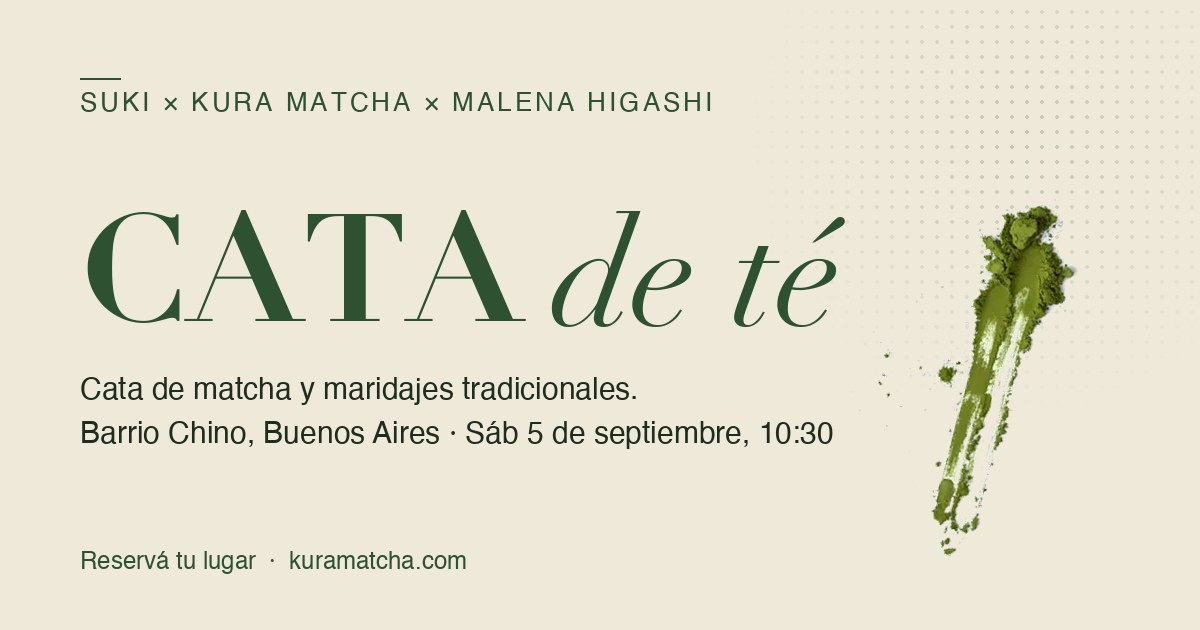
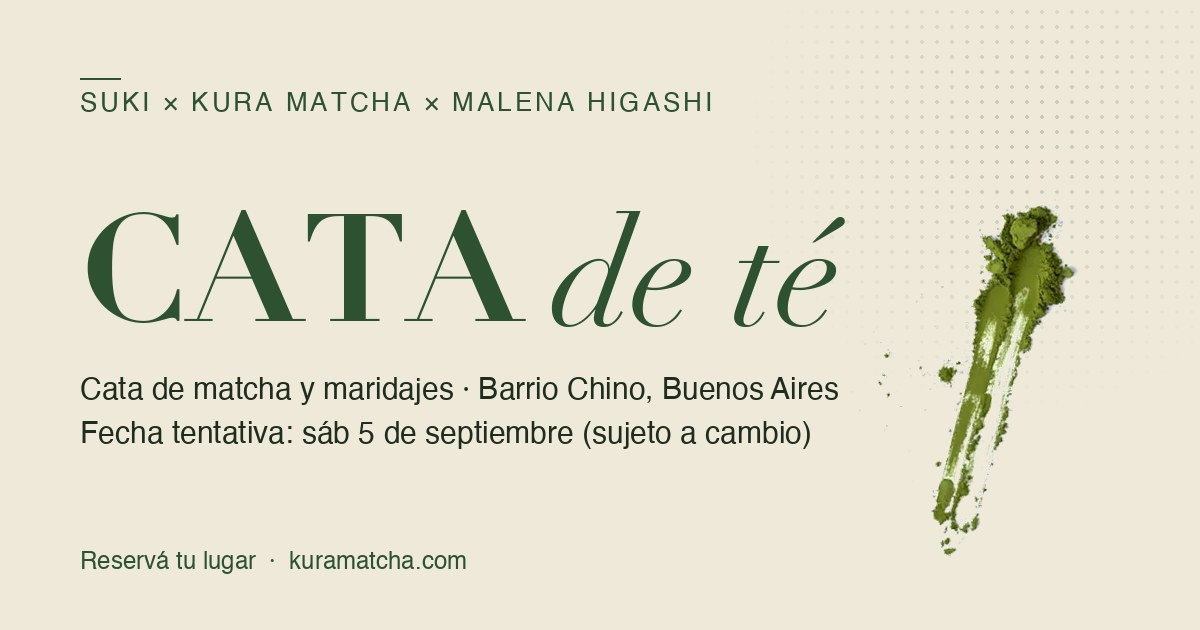
Marcar la fecha del 5 de septiembre como tentativa en todo el sitio
Mensaje de WhatsApp para compartir, bloque de datos (label "Fecha
tentativa" + nota), pill del formulario, meta description, og/twitter,
promo y pop-up del inicio, y la imagen de preview (cata-og.jpg) ahora
indican "fecha tentativa ... (sujeto a cambio)".

Changed region(s): [[0.0617, 0.6635, 0.7092, 0.7238], [0.37, 0.6032, 0.7092, 0.6333]]

diff --git a/cata.html b/cata.html
@@ -4,14 +4,14 @@
   <meta charset="utf-8" />
   <meta name="viewport" content="width=device-width, initial-scale=1" />
   <title>Ceremonia del té · SUKI × Kura Matcha × Malena Higashi</title>
-  <meta name="description" content="Cata de matcha y maridajes tradicionales en Barrio Chino, Buenos Aires. Sábado 5 de septiembre, 10:30 am. 20 cupos por turno. Reservá tu lugar." />
+  <meta name="description" content="Cata de matcha y maridajes tradicionales en Barrio Chino, Buenos Aires. Fecha tentativa: sábado 5 de septiembre (sujeto a cambio), 10:30 am. 20 cupos por turno. Reservá tu lugar." />
   <meta name="robots" content="index, follow" />
   <link rel="canonical" href="https://www.arlemgroup.com/cata.html" />
   <meta property="og:type" content="website" />
   <meta property="og:site_name" content="Kura Matcha" />
   <meta property="og:url" content="https://www.arlemgroup.com/cata.html" />
   <meta property="og:title" content="Cata de té · SUKI × Kura × Malena Higashi" />
-  <meta property="og:description" content="Cata de matcha y maridajes tradicionales en Barrio Chino, Buenos Aires. Sáb 5 de septiembre, 10:30 am · 20 cupos por turno." />
+  <meta property="og:description" content="Cata de matcha y maridajes tradicionales en Barrio Chino, Buenos Aires. Fecha tentativa: sáb 5 de septiembre (sujeto a cambio), 10:30 am · 20 cupos por turno." />
   <meta property="og:locale" content="es_AR" />
   <meta property="og:image" content="https://www.arlemgroup.com/public/cata-og.jpg" />
   <meta property="og:image:secure_url" content="https://www.arlemgroup.com/public/cata-og.jpg" />
@@ -21,7 +21,7 @@
   <meta property="og:image:alt" content="Cata de té · SUKI × Kura Matcha × Malena Higashi" />
   <meta name="twitter:card" content="summary_large_image" />
   <meta name="twitter:title" content="Cata de té · SUKI × Kura × Malena Higashi" />
-  <meta name="twitter:description" content="Cata de matcha y maridajes tradicionales en Barrio Chino, Buenos Aires. Sáb 5 de septiembre, 10:30 am." />
+  <meta name="twitter:description" content="Cata de matcha y maridajes tradicionales en Barrio Chino, Buenos Aires. Fecha tentativa: sáb 5 de septiembre (sujeto a cambio), 10:30 am." />
   <meta name="twitter:image" content="https://www.arlemgroup.com/public/cata-og.jpg" />
   <link rel="icon" type="image/x-icon" href="favicon.ico" />
   <link rel="icon" type="image/png" sizes="32x32" href="public/kura-logo.png" />
@@ -491,12 +491,12 @@
   <!-- Detalles -->
   <section>
     <div class="facts">
-      <div><span class="fact__k">Fecha</span><span class="fact__v">Sáb 5 de septiembre</span></div>
+      <div><span class="fact__k">Fecha tentativa</span><span class="fact__v">Sáb 5 de septiembre</span></div>
       <div><span class="fact__k">Hora</span><span class="fact__v">10:30 am</span></div>
       <div><span class="fact__k">Lugar</span><span class="fact__v">Barrio Chino, Buenos Aires</span></div>
       <div><span class="fact__k">Cupos</span><span class="fact__v">20 por turno</span></div>
     </div>
-    <p class="facts__note">Fechas indicativas — confirmamos por WhatsApp</p>
+    <p class="facts__note">Fecha tentativa, sujeta a cambio — confirmamos por WhatsApp</p>
   </section>
 
   </div><!-- /fold -->
@@ -526,7 +526,7 @@
       <div class="field rv" data-d="2">
         <label>¿Qué fecha te queda mejor?</label>
         <div class="pills">
-          <label class="pill"><input type="radio" name="fecha" value="Sábado 5 de septiembre · 10:30" required /><span>Sáb 5 de septiembre · 10:30</span></label>
+          <label class="pill"><input type="radio" name="fecha" value="Sábado 5 de septiembre · 10:30 (tentativa)" required /><span>Sáb 5 de septiembre · 10:30 (tentativa)</span></label>
           <label class="pill"><input type="radio" name="fecha" value="A confirmar / cualquiera" /><span>A confirmar / me es indistinto</span></label>
         </div>
       </div>
@@ -595,7 +595,7 @@
 (function () {
   var SHARE_URL  = 'https://kuramatcha.com/cata.html';
   var SHARE_TITLE = 'Cata de té · SUKI × Kura × Malena Higashi';
-  var SHARE_TEXT = 'Te invito a la Cata de té 🍵 SUKI × Kura Matcha × Malena Higashi. Cata de matcha y maridajes en Barrio Chino, sáb 5 de septiembre 10:30. Reservá tu lugar:';
+  var SHARE_TEXT = 'Te invito a la Cata de té 🍵 SUKI × Kura Matcha × Malena Higashi. Cata de matcha y maridajes en Barrio Chino. Fecha tentativa: sáb 5 de septiembre 10:30 (sujeto a cambio). Reservá tu lugar:';
 
   var pop   = document.getElementById('share-pop');
   var openBtns = document.querySelectorAll('#share-open, #share-open-top');

diff --git a/index.html b/index.html
@@ -344,7 +344,7 @@
     <span class="cata-promo__label">SUKI × Kura × Malena Higashi</span>
     <div class="cata-promo__main">
       <span class="cata-promo__title">Ceremonia del té</span>
-      <span class="cata-promo__sub">Cata de matcha y maridajes · Sáb 5 de septiembre · Barrio Chino, Buenos Aires</span>
+      <span class="cata-promo__sub">Cata de matcha y maridajes · Fecha tentativa: sáb 5 de septiembre · Barrio Chino, Buenos Aires</span>
     </div>
     <span class="cata-promo__cta">Reservar lugar <span class="cata-promo__arrow">→</span></span>
   </div>
@@ -451,7 +451,7 @@
     <button class="cata-pop__close" id="cata-pop-close" aria-label="Cerrar">✕</button>
     <span class="cata-pop__label">SUKI × Kura Matcha × Malena Higashi</span>
     <h3 class="cata-pop__title" id="cata-pop-title">Cata <em>de té</em></h3>
-    <p class="cata-pop__sub">Cata de matcha y maridajes tradicionales en Barrio Chino, Buenos Aires. Sáb 5 de septiembre, 10:30 am · 20 cupos por turno.</p>
+    <p class="cata-pop__sub">Cata de matcha y maridajes tradicionales en Barrio Chino, Buenos Aires. Fecha tentativa: sáb 5 de septiembre (sujeto a cambio), 10:30 am · 20 cupos por turno.</p>
     <a class="cata-pop__cta" href="cata.html">Reservar mi lugar <span aria-hidden="true">→</span></a>
   </div>
 </div>
